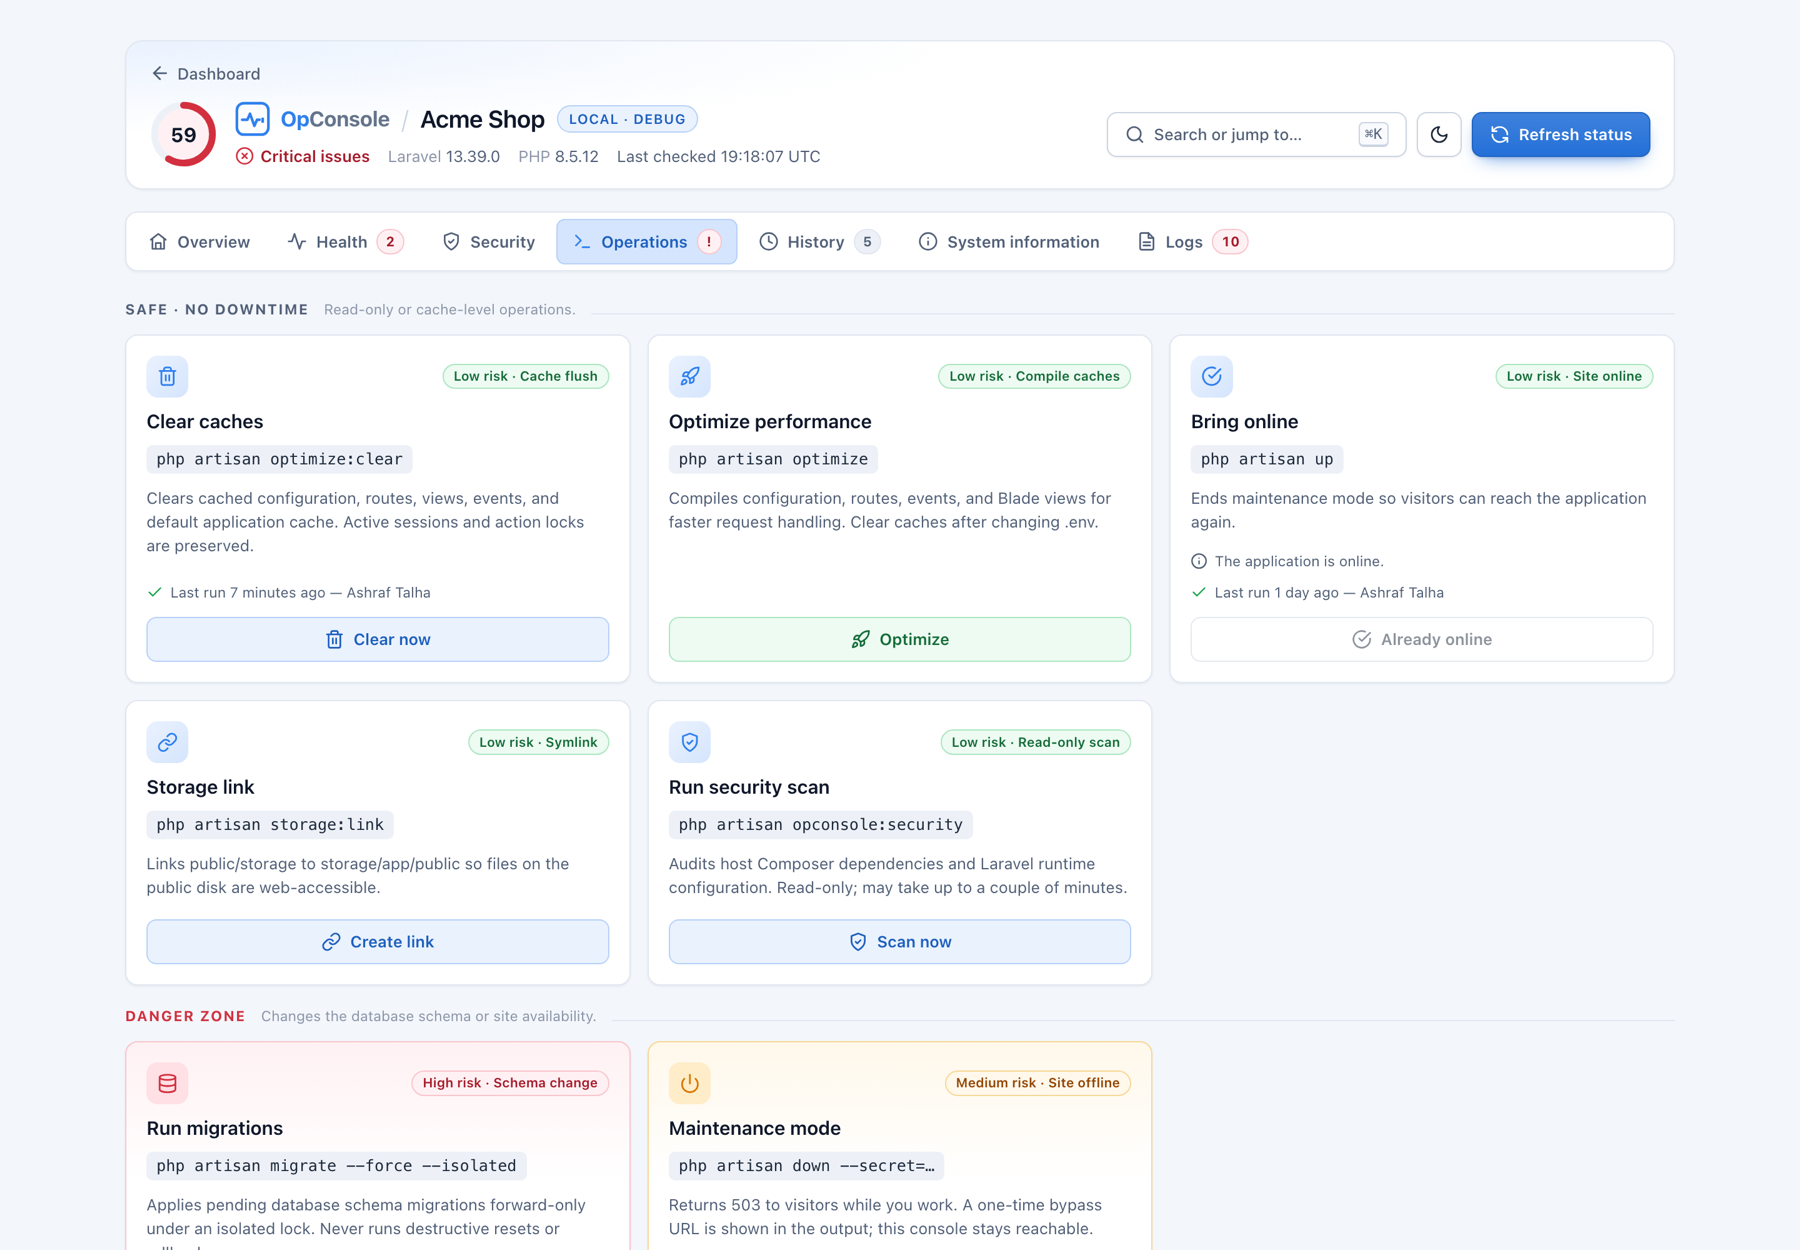
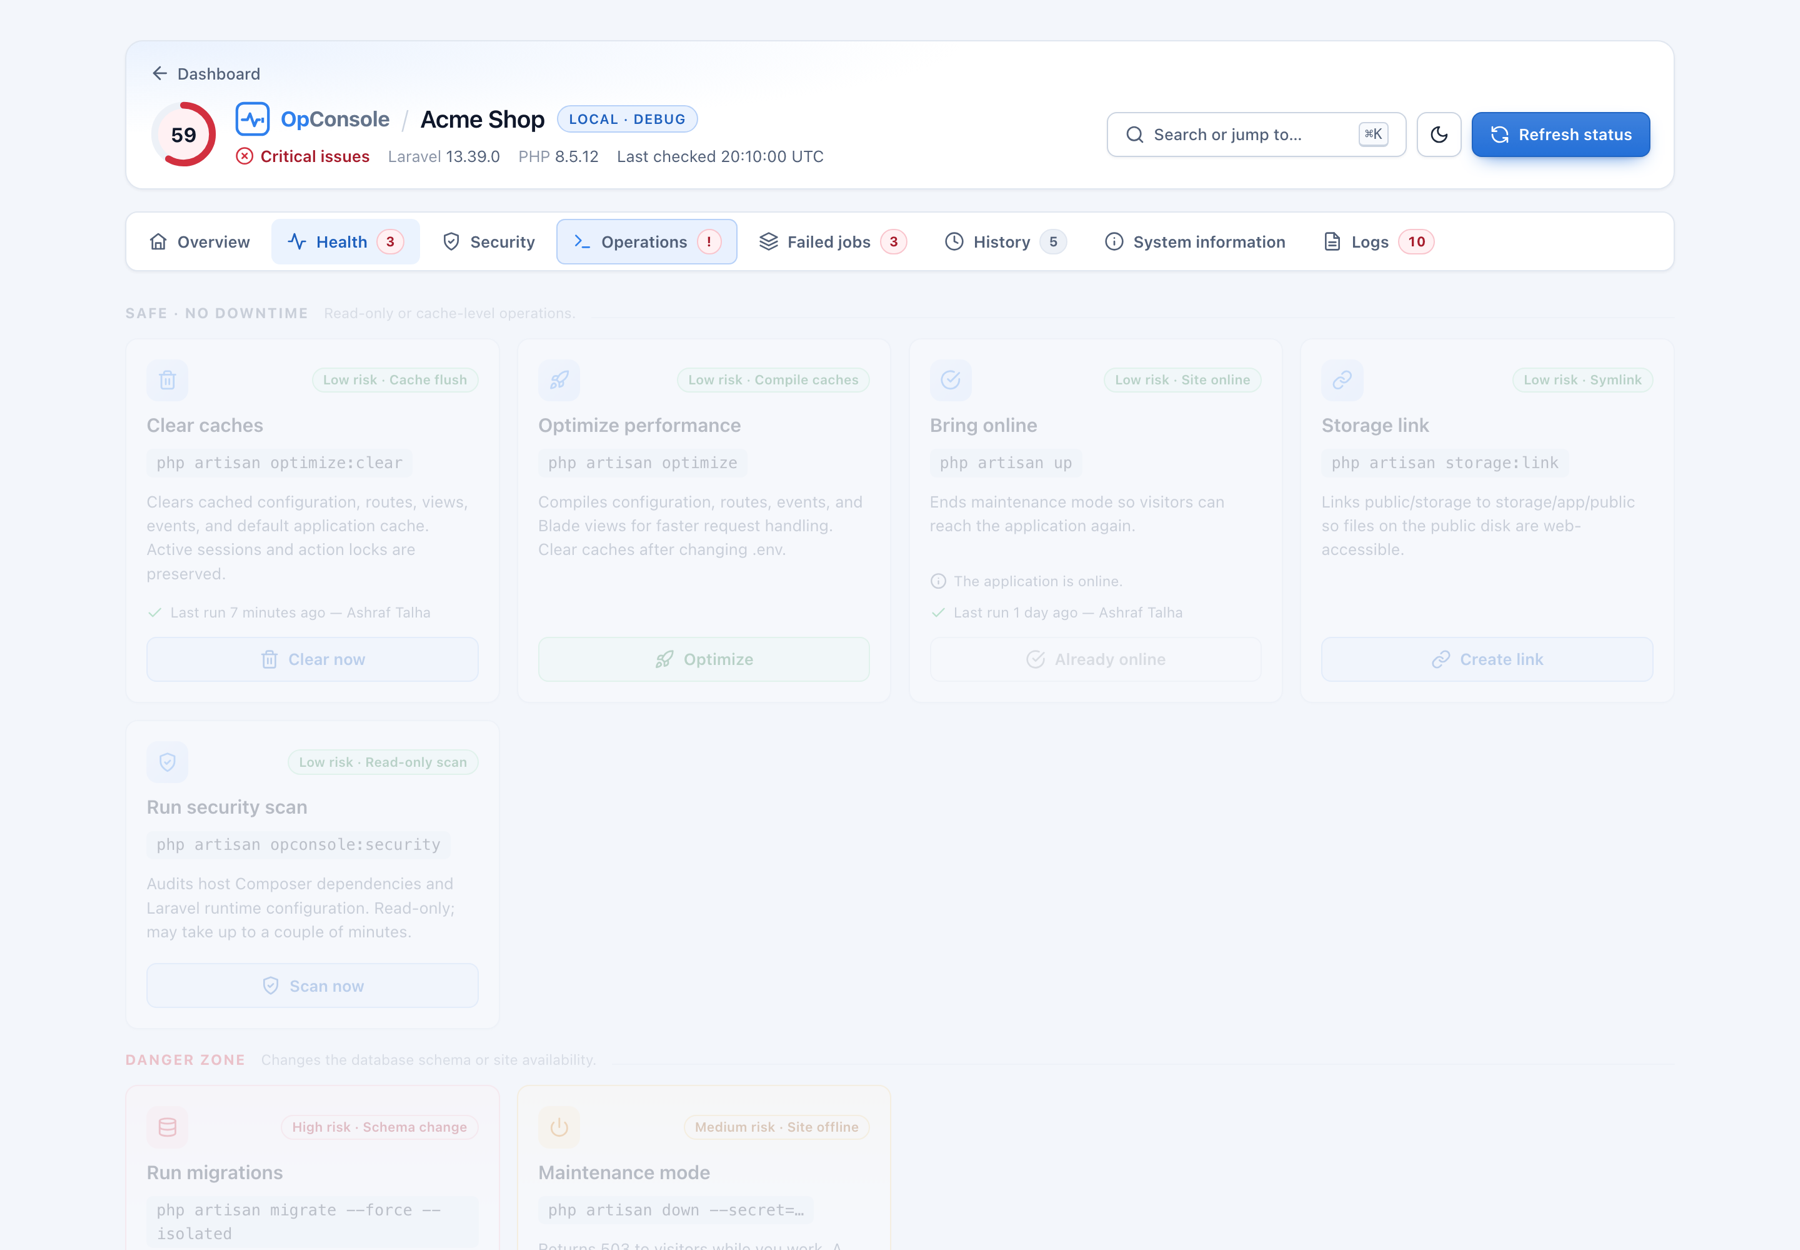
docs: release v1.11.0
Stamp CHANGELOG, UPGRADE and RELEASE-CHECKLIST for v1.11.0 (Failed
jobs tab with per-job retry, Laravel Octane and Swoole checks with a
reload operation and Swoole guard, richer System information, empty
Health tab fix) and refresh README screenshots for the eight-tab console.

diff --git a/docs/UPGRADE.md b/docs/UPGRADE.md
@@ -1,6 +1,32 @@
 # Upgrade Guide
 
-This document covers upgrades to the current `v1.10.0` release. The later sections retain migration notes for older installations.
+This document covers upgrades to the current `v1.11.0` release. The later sections retain migration notes for older installations.
+
+## Upgrade from v1.10.0 to v1.11.0
+
+No database migrations are required, and no routes, Gates or existing config keys changed. Existing configuration keeps working.
+
+1. **Update the package:**
+
+   ```bash
+   composer update ashraftalha/laravel-opconsole
+   php artisan config:clear
+   ```
+
+2. **Published assets or views:** the views gained a Failed jobs tab and an Octane section, and the stylesheet and script changed. Republish assets with `php artisan vendor:publish --tag=opconsole-assets --force`. If you customised views, merge the changes from the package's `resources/views/index.blade.php`.
+
+3. **New optional config keys** (published configs without them keep the defaults):
+   - `failed_jobs.enabled` (`OPCONSOLE_FAILED_JOBS`, default `true`), `failed_jobs.limit` (`OPCONSOLE_FAILED_JOBS_LIMIT`, `50`), `failed_jobs.allow_retry` (`OPCONSOLE_FAILED_JOBS_RETRY`, `true`).
+   - `octane.checks` (`OPCONSOLE_OCTANE_CHECKS`, `auto`), `octane.expected_in_production` (`OPCONSOLE_OCTANE_EXPECTED`, `false`), `octane.allow_actions_in_swoole` (`OPCONSOLE_OCTANE_ALLOW_ACTIONS`, `false`).
+   - `actions.octane_reload` (`OPCONSOLE_ACTION_OCTANE_RELOAD`, `true`; only shown when Octane is installed).
+
+4. **Permissions to review:**
+   - Anyone with the run Gate can now retry a failed job, which re-runs it with its original payload. To restrict that, map `queue_retry` to its own Gate in `authorization.action_gates`, or set `OPCONSOLE_FAILED_JOBS_RETRY=false`.
+   - The Failed jobs tab is visible to anyone with the view Gate. It shows job class names, queues and the first line of each exception (sanitised), never payloads. Set `OPCONSOLE_FAILED_JOBS=false` to hide it.
+
+5. **Behaviour you may notice:**
+   - If you serve the console with Laravel Octane on Swoole, timed operations (clear caches, optimize, migrate, maintenance on/off, storage link) are now refused from the browser, because their timeout signal would interrupt the Swoole worker itself. Run them from the CLI, or set `OPCONSOLE_OCTANE_ALLOW_ACTIONS=true` to accept that risk. The security scan and Octane reload still run. RoadRunner, FrankenPHP and PHP-FPM are unaffected.
+   - The Health and History tabs no longer open empty when every check is healthy.
 
 ## Upgrade from v1.9.0 to v1.10.0
 

diff --git a/CHANGELOG.md b/CHANGELOG.md
@@ -4,6 +4,8 @@ All notable changes to Laravel OpConsole are documented here. This project follo
 
 ## [Unreleased]
 
+## [1.11.0] - 2026-11-04
+
 ### Added
 - **Laravel Octane and Swoole support**, active only when Octane is installed: an **Octane and runtime** health group (server dependency, requests served by Octane, server process running, garbage threshold vs `memory_limit`, HTTPS vs `APP_URL`, `opcache.enable_cli`; with Swoole also `package_max_length` vs PHP upload limits, worker count vs CPUs, Xdebug, and the Swoole log file), an **Octane** card in System information, an **Octane server** row in Runtime status, a **Reload Octane workers** operation (`octane:reload`), and a reminder to reload workers after clearing caches, optimizing or migrating. New `octane.checks`, `octane.expected_in_production`, `octane.allow_actions_in_swoole` and `actions.octane_reload` options.
 - **Failed jobs** tab: the newest failed queue jobs (name, connection, queue, failure time, first line of the sanitised exception; payloads are never shown), a filter, a tab badge with the count, and a **Retry** button per job that runs `queue:retry {id}`. Retrying needs the run Gate or a `queue_retry` action Gate, is confirmed, rate limited and audited as `queue.retry`. New `failed_jobs.enabled`, `failed_jobs.limit` and `failed_jobs.allow_retry` options.
@@ -15,6 +17,10 @@ All notable changes to Laravel OpConsole are documented here. This project follo
 
 ### Changed
 - Operations shows four cards per row on wide screens (two on tablets, one on phones).
+- README screenshots refreshed for the eight-tab console, including Failed jobs.
+
+### Tests
+- Octane support is unit-tested against stand-ins of Octane's classes (`tests/Stubs/octane.php`), so the real runtime detection, process-inspector integration and Swoole guard run without laravel/octane installed.
 
 ## [1.10.0] - 2026-11-04
 

diff --git a/docs/RELEASE-CHECKLIST.md b/docs/RELEASE-CHECKLIST.md
@@ -4,9 +4,9 @@ Use this checklist before tagging any release of `ashraftalha/laravel-opconsole`
 
 ---
 
-## Release Scope: `v1.10.0`
+## Release Scope: `v1.11.0`
 
-This release redesigns the dashboard around the OpConsole logo (brand colours, health score, command palette, log timeline, screenshots in the README), renames five admin-theme CSS classes, adds the opt-in `web_fonts` key, serves an `opconsole.svg` favicon asset, and fixes truncated advisory version ranges and CSS reset specificity. No routes, Gates, migrations or config keys were removed. Review `CHANGELOG.md`, `CONFIGURATION.md` and `UPGRADE.md` against the exact release commit.
+This release adds a Failed jobs tab with per-job retry (`POST failed-jobs/{id}/retry`, run Gate or `queue_retry` action Gate, audited), Laravel Octane and Swoole health checks with a Reload Octane workers operation (only when Octane is installed), a guard that refuses timed operations inside Swoole workers, more System information, and fixes the Health tab opening empty. No routes, Gates, migrations or config keys were removed. Review `CHANGELOG.md`, `CONFIGURATION.md` and `UPGRADE.md` against the exact release commit.
 
 ---
 

diff --git a/README.md b/README.md
@@ -59,7 +59,7 @@ The console is organised in eight tabs. A header above them shows a **0–100 he
 </tr>
 <tr>
 <td width="50%"><img src="art/screenshots/history-dark.png" alt="History tab in dark mode: operations grouped by day with durations"><br><sub><b>History</b>: audit trail grouped by day (dark)</sub></td>
-<td width="50%"><img src="art/screenshots/overview-dark.png" alt="Overview tab in dark mode"><br><sub><b>Overview</b> in dark mode</sub></td>
+<td width="50%"><img src="art/screenshots/jobs-light.png" alt="Failed jobs tab: failed queue jobs with their error and a Retry button"><br><sub><b>Failed jobs</b>: errors at a glance, retry one job</sub></td>
 </tr>
 </table>
 
